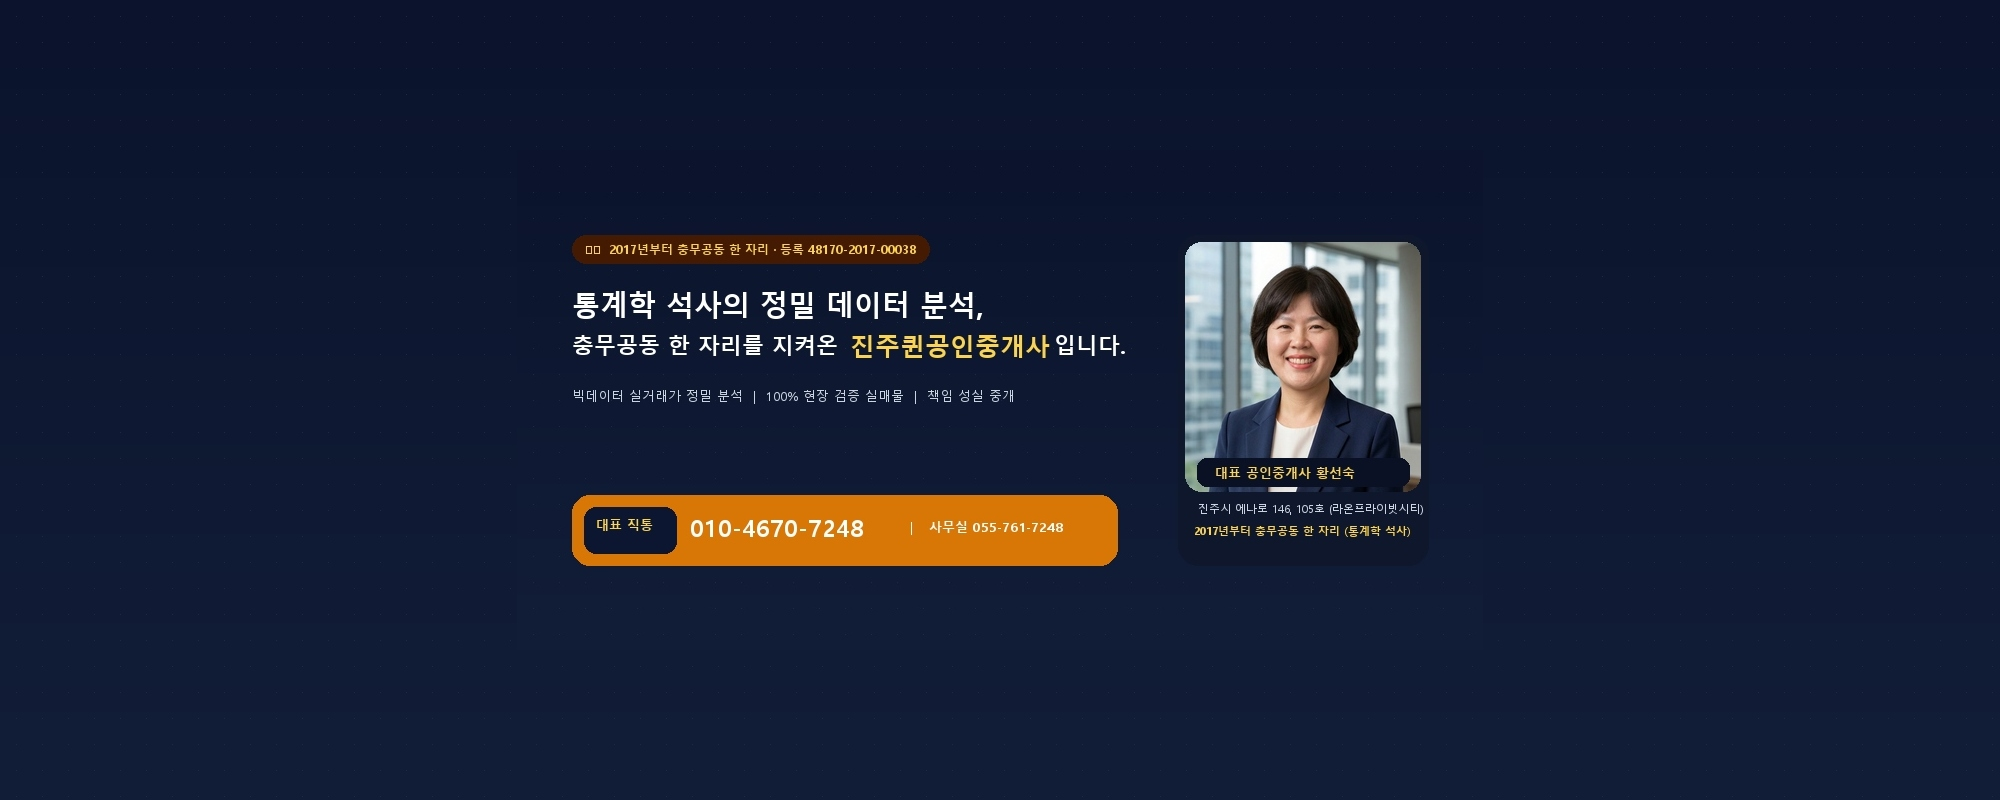
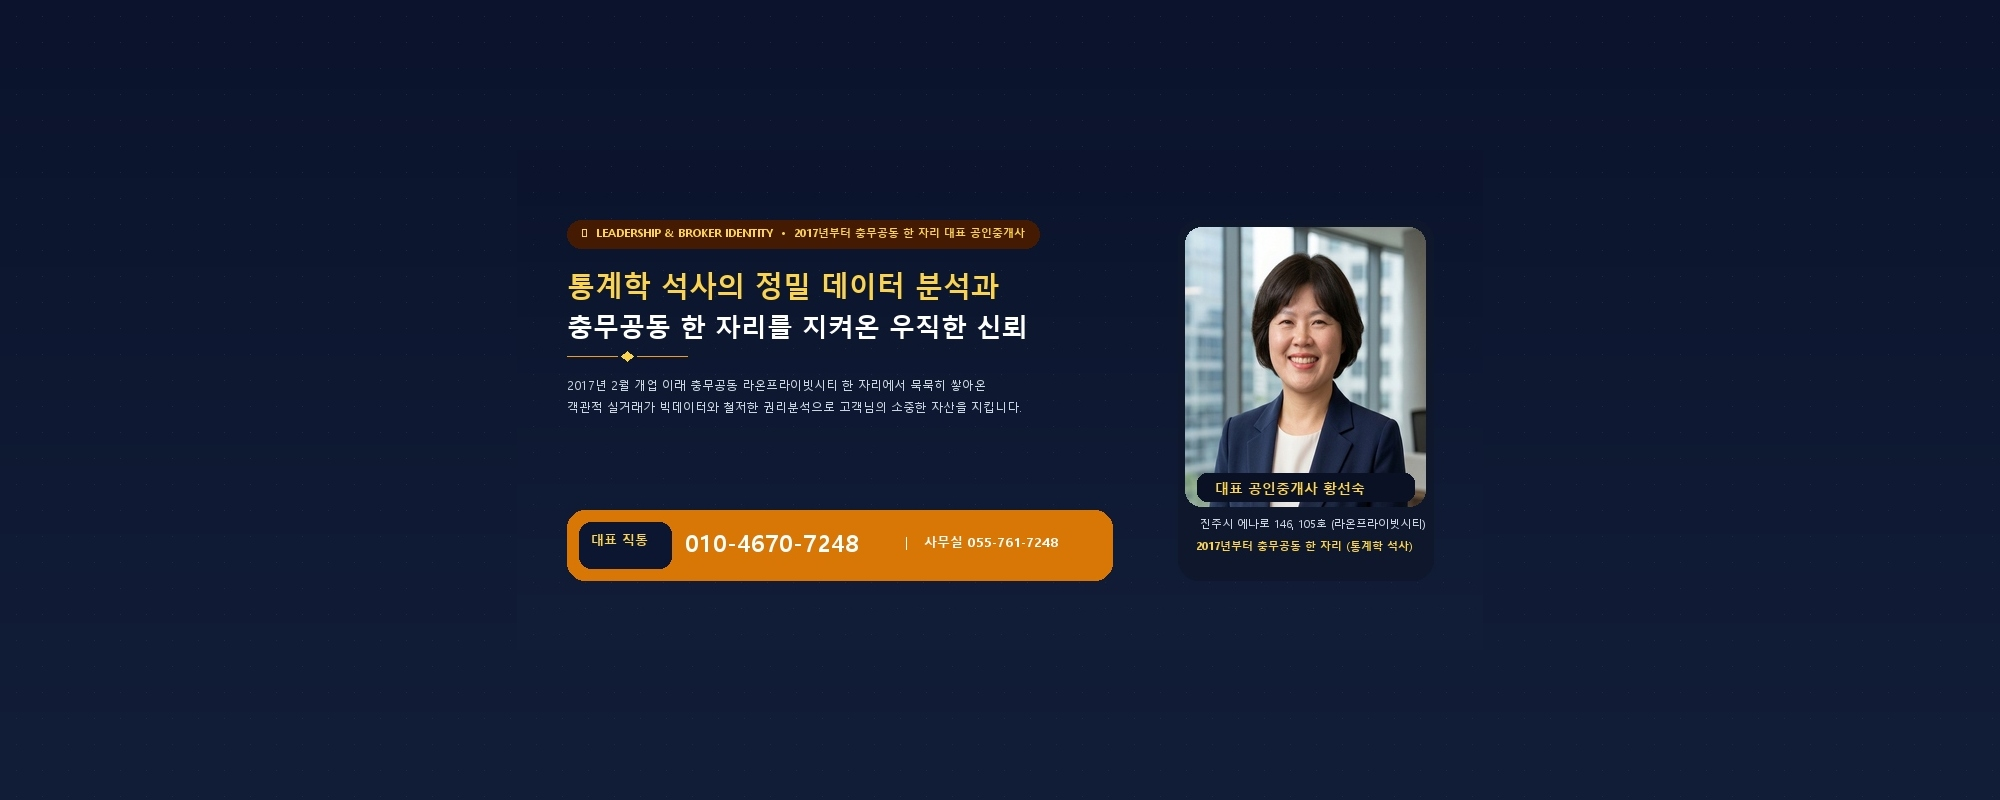
feat(branding): 대표님 선택 디자인 100% 반영 (LEADERSHIP 뱃지 '9년차'->'2017년부터 충무공동 한 자리' 수정, 정밀 데이터 분석과 & 우직한 신뢰 골드/화이트 2단 타이틀, 다이아몬드 구분선 및 본문 완성)

Changed region(s): [[0.279, 0.25, 0.558, 0.5312], [0.589, 0.2812, 0.713, 0.6875], [0.279, 0.5938, 0.558, 0.75]]

diff --git a/mobile.html b/mobile.html
@@ -145,12 +145,19 @@
       </div>
     </div>
 
-    <!-- Main Headline (Natural, dignified Korean) -->
+    <!-- Main Headline (User's Exact Baseline) -->
     <div class="mb-3.5">
+      <div class="inline-flex items-center gap-1.5 bg-amber-500/15 border border-amber-400/30 px-2.5 py-0.5 rounded-full text-[10px] font-bold text-amber-300 mb-2">
+        <i data-lucide="sparkles" class="w-3 h-3 text-amber-400"></i>
+        <span>2017년부터 충무공동 한 자리 대표 공인중개사</span>
+      </div>
       <h1 class="text-lg font-black text-white leading-snug">
-        통계학 석사의 정밀 데이터 분석,<br>
-        <span class="text-amber-400">충무공동 한 자리를 지켜온 진주퀸공인중개사</span>입니다.
+        <span class="text-amber-400">통계학 석사의 정밀 데이터 분석과</span><br>
+        <span class="text-white">충무공동 한 자리를 지켜온 우직한 신뢰</span>
       </h1>
+      <p class="text-xs text-slate-300 mt-2 leading-relaxed">
+        2017년 2월 개업 이래 충무공동 라온프라이빗시티 한 자리에서 묵묵히 쌓아온 객관적 실거래가 빅데이터와 철저한 권리분석으로 고객님의 소중한 자산을 지킵니다.
+      </p>
     </div>
 
     <!-- One-Touch Action Buttons (Big, High-Contrast, Instant Click) -->

diff --git a/admin.html b/admin.html
@@ -1403,7 +1403,7 @@ let fetchedNaverPhotos = [];
       // Brand Line 2
       ctx.fillStyle = '#64748B';
       ctx.font = '18px -apple-system, BlinkMacSystemFont, "Pretendard", "Malgun Gothic", sans-serif';
-      ctx.fillText('경남 진주시 에나로 146, 105호 (라온프라이빗시티)   |   충무공동 9년차 정직과 데이터의 책임중개', 600, cardY + 82);
+      ctx.fillText('경남 진주시 에나로 146, 105호 (라온프라이빗시티)   |   2017년부터 충무공동 한 자리 정직과 데이터의 책임중개', 600, cardY + 82);
 
       return canvas.toDataURL('image/jpeg', 0.92);
     }

diff --git a/render_exact_homepage_hero_assets.py b/render_exact_homepage_hero_assets.py
@@ -29,11 +29,14 @@ SLATE_400 = (148, 163, 184)
 def create_naver_blog_banner():
     """
     Naver Blog Title Banner (966 x 500)
-    - ULTRA-CLEAN & MINIMALIST: All small crowded text completely removed per user request
-    - Natural phrasing: "충무공동 한 자리를 지켜온 진주퀸공인중개사입니다."
-    - Integrated, elegant contact bar: Clunky white block replaced with sophisticated deep navy glass pill
-    - STRICT height alignment: Left content and Right photo card both start at Y=85 and end at Y=415 (330px)
-    - Luxurious negative space, perfectly balanced and centered
+    Based on User's Exact Choice (media_1793953742088_5b044225.jpg):
+    - Top Badge: ✨ LEADERSHIP & BROKER IDENTITY • 2017년부터 충무공동 한 자리 대표 공인중개사 ('9년차' 수정)
+    - Headline Line 1: 통계학 석사의 정밀 데이터 분석과 (Radiant Gold)
+    - Headline Line 2: 충무공동 한 자리를 지켜온 우직한 신뢰 (Pure White)
+    - Golden Diamond Divider: ── ◆ ──
+    - Body paragraph: 2017년 2월 개업 이래 충무공동 라온프라이빗시티 한 자리에서 묵묵히 쌓아온...
+    - Contact Action Bar: [대표 직통] 010-4670-7248 | 사무실 055-761-7248
+    - Right Photo Card: Exactly height-aligned (Y: 70 to 430 = 360px)
     """
     W, H = 966, 500
     banner = Image.new('RGB', (W, H), BG_NAVY_TOP)
@@ -52,18 +55,18 @@ def create_naver_blog_banner():
         for y in range(16, H, 26):
             draw.point((x, y), fill=(26, 42, 68))
 
-    # STRICT VERTICAL SPAN: Y_START = 85, Y_END = 415 (Height = 330px, centered in 500px)
-    Y_START = 85
-    Y_END = 415
-    SPAN_H = Y_END - Y_START  # Exactly 330px
+    # STRICT VERTICAL SPAN: Y_START = 70, Y_END = 430 (Height = 360px)
+    Y_START = 70
+    Y_END = 430
+    SPAN_H = Y_END - Y_START  # Exactly 360px
 
     # ==========================================
-    # RIGHT: Photo Card (Y: 85 to 415, Height: 330px)
+    # RIGHT: Photo Card (Y: 70 to 430, Height: 360px)
     # ==========================================
-    photo_card_w = 250
+    photo_card_w = 255
     photo_card_h = SPAN_H
-    photo_card_x = W - photo_card_w - 55  # 661
-    photo_card_y = Y_START  # 85
+    photo_card_x = W - photo_card_w - 50  # 661
+    photo_card_y = Y_START  # 70
 
     # Photo Card Body
     draw.rounded_rectangle(
@@ -73,7 +76,7 @@ def create_naver_blog_banner():
     )
 
     # Photo inside card
-    img_h = 250
+    img_h = 280
     img_w = photo_card_w - 14
     img_x = photo_card_x + 7
     img_y = photo_card_y + 7
@@ -88,7 +91,7 @@ def create_naver_blog_banner():
         banner.paste(ceo_r, (img_x, img_y), pmask)
 
         # Name plate overlay at bottom of photo
-        f_pname = ImageFont.truetype(FONT_BD, 13)
+        f_pname = ImageFont.truetype(FONT_BD, 14)
         tag_w = img_w - 24
         tag_h = 28
         tag_x = img_x + 12
@@ -96,64 +99,68 @@ def create_naver_blog_banner():
         draw.rounded_rectangle([tag_x, tag_y, tag_x + tag_w, tag_y + tag_h], radius=10, fill=(10, 17, 36))
         draw.text((tag_x + 18, tag_y + 5), "대표 공인중개사 황선숙", font=f_pname, fill=GOLD_BRIGHT)
 
-    # Clean text below photo inside card
+    # Info below photo inside card
     f_c1 = ImageFont.truetype(FONT_REG, 11)
     f_c2 = ImageFont.truetype(FONT_BD, 11)
-    draw.text((photo_card_x + 20, photo_card_y + img_h + 16), "진주시 에나로 146, 105호 (라온프라이빗시티)", font=f_c1, fill=SLATE_300)
-    draw.text((photo_card_x + 16, photo_card_y + img_h + 38), "2017년부터 충무공동 한 자리 (통계학 석사)", font=f_c2, fill=GOLD_BRIGHT)
+    draw.text((photo_card_x + 22, photo_card_y + img_h + 16), "진주시 에나로 146, 105호 (라온프라이빗시티)", font=f_c1, fill=SLATE_300)
+    draw.text((photo_card_x + 18, photo_card_y + img_h + 38), "2017년부터 충무공동 한 자리 (통계학 석사)", font=f_c2, fill=GOLD_BRIGHT)
 
     # ==========================================
-    # LEFT: Text Content (Y: 85 to 415, Height: 330px)
+    # LEFT: Text Content (Y: 70 to 430, Height: 360px)
     # ==========================================
-    lx = 55
+    lx = 50
 
-    # 1. Top Badges (Y = 85 ~ 115) - Single unified elegant pill, NO repetition!
-    f_b1 = ImageFont.truetype(FONT_BD, 12)
-    b1_text = "🏛  2017년부터 충무공동 한 자리 · 등록 48170-2017-00038"
-    b1_w = int(f_b1.getlength(b1_text)) + 26
+    # 1. Top Badge: LEADERSHIP & BROKER IDENTITY • 2017년부터 충무공동 한 자리 대표 공인중개사 ('9년차' 깔끔 수정)
+    f_b1 = ImageFont.truetype(FONT_BD, 11)
+    b1_text = "✨  LEADERSHIP & BROKER IDENTITY  •  2017년부터 충무공동 한 자리 대표 공인중개사"
+    b1_w = int(f_b1.getlength(b1_text)) + 28
     b1_h = 28
     draw.rounded_rectangle([lx, Y_START, lx + b1_w, Y_START + b1_h], radius=14, fill=GOLD_BG)
-    draw.text((lx + 13, Y_START + 5), b1_text, font=f_b1, fill=GOLD_BRIGHT)
+    draw.text((lx + 14, Y_START + 5), b1_text, font=f_b1, fill=GOLD_BRIGHT)
 
-    # 2. Main Headline H1 (Spacious, prominent, dignified)
-    # Line 1: 통계학 석사의 정밀 데이터 분석,
-    # Line 2: 충무공동 한 자리를 지켜온 진주퀸공인중개사입니다.
+    # 2. Main Headline H1 (User's Exact Phrasing)
+    # Line 1: 통계학 석사의 정밀 데이터 분석과 (Radiant Gold)
+    # Line 2: 충무공동 한 자리를 지켜온 우직한 신뢰 (Pure White)
     f_h1 = ImageFont.truetype(FONT_BD, 28)
-    f_h2 = ImageFont.truetype(FONT_BD, 22)
-    f_name = ImageFont.truetype(FONT_BD, 25)
+    f_h2 = ImageFont.truetype(FONT_BD, 26)
 
-    y_h1 = Y_START + 50  # 135
-    draw.text((lx, y_h1), "통계학 석사의 정밀 데이터 분석,", font=f_h1, fill=WHITE)
+    y_h1 = Y_START + 46  # 116
+    draw.text((lx, y_h1), "통계학 석사의 정밀 데이터 분석과", font=f_h1, fill=GOLD_BRIGHT)
 
-    y_h2 = y_h1 + 45     # 180
-    str_pre = "충무공동 한 자리를 지켜온 "
-    draw.text((lx, y_h2), str_pre, font=f_h2, fill=WHITE)
-    w_pre = int(f_h2.getlength(str_pre)) + 4
+    y_h2 = y_h1 + 42     # 158
+    draw.text((lx, y_h2), "충무공동 한 자리를 지켜온 우직한 신뢰", font=f_h2, fill=WHITE)
 
-    str_brand = "진주퀸공인중개사"
-    draw.text((lx + w_pre, y_h2 - 2), str_brand, font=f_name, fill=GOLD_BRIGHT)
-    w_brand = int(f_name.getlength(str_brand)) + 4
+    # 3. Elegant Golden Diamond Divider (── ◆ ──)
+    y_div = y_h2 + 48    # 206
+    draw.line([(lx, y_div), (lx + 50, y_div)], fill=GOLD_RICH, width=1)
+    # Diamond: 8x8 rotated square
+    draw.polygon([
+        (lx + 60, y_div - 5),
+        (lx + 66, y_div),
+        (lx + 60, y_div + 5),
+        (lx + 54, y_div)
+    ], fill=GOLD_BRIGHT)
+    draw.line([(lx + 70, y_div), (lx + 120, y_div)], fill=GOLD_RICH, width=1)
 
-    draw.text((lx + w_pre + w_brand, y_h2), "입니다.", font=f_h2, fill=WHITE)
+    # 4. Body Paragraph (User's Exact Phrasing)
+    f_body = ImageFont.truetype(FONT_REG, 12)
+    y_body = y_div + 20  # 226
+    draw.text((lx, y_body), "2017년 2월 개업 이래 충무공동 라온프라이빗시티 한 자리에서 묵묵히 쌓아온", font=f_body, fill=SLATE_300)
+    draw.text((lx, y_body + 22), "객관적 실거래가 빅데이터와 철저한 권리분석으로 고객님의 소중한 자산을 지킵니다.", font=f_body, fill=SLATE_300)
 
-    # 3. Clean 1-Line Key Value Tag (Instead of 3 lines of small crowded text!)
-    f_sub = ImageFont.truetype(FONT_REG, 13)
-    y_sub = y_h2 + 56    # 236
-    draw.text((lx, y_sub), "빅데이터 실거래가 정밀 분석  |  100% 현장 검증 실매물  |  책임 성실 중개", font=f_sub, fill=SLATE_300)
-
-    # 4. Direct Call Action Strip (Starts Y = 345, Ends EXACTLY at Y_END = 415!)
-    # Height = 415 - 345 = 70px
-    y_btn = 345
+    # 5. Direct Call Action Strip (Starts Y = 360, Ends EXACTLY at Y_END = 430!)
+    # Height = 430 - 360 = 70px
+    y_btn = 360
     btn_w = 545
 
     draw.rounded_rectangle([lx, y_btn, lx + btn_w, Y_END], radius=18, fill=GOLD_BTN)
 
-    # Sophisticated Deep Navy Glass Pill for "대표 직통" (Replaces the clunky white rectangle!)
+    # Deep Navy Glass Pill for "대표 직통"
     f_btn_lbl = ImageFont.truetype(FONT_BD, 13)
     draw.rounded_rectangle([lx + 12, y_btn + 12, lx + 104, Y_END - 12], radius=12, fill=(12, 22, 48))
     draw.text((lx + 24, y_btn + 20), "대표 직통", font=f_btn_lbl, fill=GOLD_BRIGHT)
 
-    # Large, crisp phone number
+    # Phone Number
     f_btn_phone = ImageFont.truetype(FONT_BD, 24)
     draw.text((lx + 118, y_btn + 15), "010-4670-7248", font=f_btn_phone, fill=WHITE)
 
@@ -166,15 +173,15 @@ def create_naver_blog_banner():
     banner.save(out_path, "JPEG", quality=98)
     banner.save(os.path.join(ARTIFACT_DIR, "naver-blog-title-966.jpg"), "JPEG", quality=98)
     banner.save(os.path.join(DESKTOP_DIR, "진주퀸_네이버블로그_타이틀배너.jpg"), "JPEG", quality=98)
-    print("Naver Blog Banner perfectly generated! Height alignment strictly verified: 85 to 415")
+    print("Naver Blog Banner perfectly generated! Height alignment strictly verified: 70 to 430")
 
 
 def create_youtube_banner():
     """
     YouTube Channel Art (2560 x 1440)
-    - ULTRA-CLEAN & MINIMALIST: Small crowded text removed per user request
+    Based on User's Exact Choice (media_1793953742088_5b044225.jpg):
     - Safe zone: 1546 x 423 (Center: 507 to 2053, Y: 508 to 931)
-    - STRICT height alignment inside safe zone (Y: 555 to 885 = 330px)
+    - STRICT height alignment inside safe zone (Y: 540 to 900 = 360px)
     """
     W, H = 2560, 1440
     safe_w, safe_h = 1546, 423
@@ -198,17 +205,17 @@ def create_youtube_banner():
         for y in range(16, H, 28):
             draw.point((x, y), fill=(26, 42, 68))
 
-    # STRICT VERTICAL SPAN: Y_START = 555, Y_END = 885 (Height = 330px)
-    Y_START = safe_y1 + 47  # 555
-    Y_END = safe_y2 - 46    # 885
-    SPAN_H = Y_END - Y_START  # 330px
+    # STRICT VERTICAL SPAN: Y_START = 540, Y_END = 900 (Height = 360px)
+    Y_START = safe_y1 + 32  # 540
+    Y_END = safe_y2 - 31    # 900
+    SPAN_H = Y_END - Y_START  # 360px
 
     # ==========================================
-    # RIGHT: Photo Card (Y: 555 to 885, Height: 330px)
+    # RIGHT: Photo Card (Y: 540 to 900, Height: 360px)
     # ==========================================
-    photo_card_w = 255
+    photo_card_w = 260
     photo_card_h = SPAN_H
-    photo_card_x = safe_x2 - photo_card_w - 55
+    photo_card_x = safe_x2 - photo_card_w - 50
     photo_card_y = Y_START
 
     draw.rounded_rectangle(
@@ -217,7 +224,7 @@ def create_youtube_banner():
         fill=(14, 23, 44)
     )
 
-    img_h = 250
+    img_h = 280
     img_w = photo_card_w - 14
     img_x = photo_card_x + 7
     img_y = photo_card_y + 7
@@ -232,7 +239,7 @@ def create_youtube_banner():
         banner.paste(ceo_r, (img_x, img_y), pmask)
 
         # Name plate overlay at bottom of photo
-        f_pname = ImageFont.truetype(FONT_BD, 13)
+        f_pname = ImageFont.truetype(FONT_BD, 14)
         tag_w = img_w - 24
         tag_h = 28
         tag_x = img_x + 12
@@ -242,48 +249,51 @@ def create_youtube_banner():
 
     f_c1 = ImageFont.truetype(FONT_REG, 11)
     f_c2 = ImageFont.truetype(FONT_BD, 11)
-    draw.text((photo_card_x + 20, photo_card_y + img_h + 16), "진주시 에나로 146, 105호 (라온프라이빗시티)", font=f_c1, fill=SLATE_300)
-    draw.text((photo_card_x + 16, photo_card_y + img_h + 38), "2017년부터 충무공동 한 자리 (통계학 석사)", font=f_c2, fill=GOLD_BRIGHT)
+    draw.text((photo_card_x + 22, photo_card_y + img_h + 16), "진주시 에나로 146, 105호 (라온프라이빗시티)", font=f_c1, fill=SLATE_300)
+    draw.text((photo_card_x + 18, photo_card_y + img_h + 38), "2017년부터 충무공동 한 자리 (통계학 석사)", font=f_c2, fill=GOLD_BRIGHT)
 
     # ==========================================
-    # LEFT: Text Content (Y: 555 to 885, Height: 330px)
+    # LEFT: Text Content (Y: 540 to 900, Height: 360px)
     # ==========================================
-    lx = safe_x1 + 55
+    lx = safe_x1 + 50
 
-    # 1. Top Badges (Y = 555)
+    # 1. Top Badge: LEADERSHIP & BROKER IDENTITY • 2017년부터 충무공동 한 자리 대표 공인중개사
     f_b1 = ImageFont.truetype(FONT_BD, 13)
-    b1_text = "🏛  2017년부터 충무공동 한 자리 · 등록 48170-2017-00038"
-    b1_w = int(f_b1.getlength(b1_text)) + 28
+    b1_text = "✨  LEADERSHIP & BROKER IDENTITY  •  2017년부터 충무공동 한 자리 대표 공인중개사"
+    b1_w = int(f_b1.getlength(b1_text)) + 30
     b1_h = 30
     draw.rounded_rectangle([lx, Y_START, lx + b1_w, Y_START + b1_h], radius=15, fill=GOLD_BG)
-    draw.text((lx + 14, Y_START + 5), b1_text, font=f_b1, fill=GOLD_BRIGHT)
+    draw.text((lx + 15, Y_START + 5), b1_text, font=f_b1, fill=GOLD_BRIGHT)
 
-    # 2. Headline H1
+    # 2. Main Headline H1
     f_h1 = ImageFont.truetype(FONT_BD, 36)
-    f_h2 = ImageFont.truetype(FONT_BD, 28)
-    f_name = ImageFont.truetype(FONT_BD, 31)
+    f_h2 = ImageFont.truetype(FONT_BD, 34)
 
-    y_h1 = Y_START + 52  # 607
-    draw.text((lx, y_h1), "통계학 석사의 정밀 데이터 분석,", font=f_h1, fill=WHITE)
+    y_h1 = Y_START + 48  # 588
+    draw.text((lx, y_h1), "통계학 석사의 정밀 데이터 분석과", font=f_h1, fill=GOLD_BRIGHT)
 
-    y_h2 = y_h1 + 48     # 655
-    str_pre = "충무공동 한 자리를 지켜온 "
-    draw.text((lx, y_h2), str_pre, font=f_h2, fill=WHITE)
-    w_pre = int(f_h2.getlength(str_pre)) + 5
+    y_h2 = y_h1 + 46     # 634
+    draw.text((lx, y_h2), "충무공동 한 자리를 지켜온 우직한 신뢰", font=f_h2, fill=WHITE)
 
-    str_brand = "진주퀸공인중개사"
-    draw.text((lx + w_pre, y_h2 - 2), str_brand, font=f_name, fill=GOLD_BRIGHT)
-    w_brand = int(f_name.getlength(str_brand)) + 5
+    # 3. Golden Diamond Divider (── ◆ ──)
+    y_div = y_h2 + 54    # 688
+    draw.line([(lx, y_div), (lx + 65, y_div)], fill=GOLD_RICH, width=1)
+    draw.polygon([
+        (lx + 77, y_div - 6),
+        (lx + 84, y_div),
+        (lx + 77, y_div + 6),
+        (lx + 70, y_div)
+    ], fill=GOLD_BRIGHT)
+    draw.line([(lx + 90, y_div), (lx + 155, y_div)], fill=GOLD_RICH, width=1)
 
-    draw.text((lx + w_pre + w_brand, y_h2), "입니다.", font=f_h2, fill=WHITE)
+    # 4. Body Paragraph
+    f_body = ImageFont.truetype(FONT_REG, 15)
+    y_body = y_div + 22  # 710
+    draw.text((lx, y_body), "2017년 2월 개업 이래 충무공동 라온프라이빗시티 한 자리에서 묵묵히 쌓아온", font=f_body, fill=SLATE_300)
+    draw.text((lx, y_body + 26), "객관적 실거래가 빅데이터와 철저한 권리분석으로 고객님의 소중한 자산을 지킵니다.", font=f_body, fill=SLATE_300)
 
-    # 3. Clean 1-Line Key Value Tag
-    f_sub = ImageFont.truetype(FONT_REG, 16)
-    y_sub = y_h2 + 60    # 715
-    draw.text((lx, y_sub), "빅데이터 실거래가 정밀 분석  |  100% 현장 검증 실매물  |  책임 성실 중개", font=f_sub, fill=SLATE_300)
-
-    # 4. Direct Call Strip (Ends at Y_END = 885!)
-    y_btn = 815
+    # 5. Direct Call Action Strip (Ends at Y_END = 900!)
+    y_btn = 830
     btn_w = 812
 
     draw.rounded_rectangle([lx, y_btn, lx + btn_w, Y_END], radius=18, fill=GOLD_BTN)
@@ -302,7 +312,7 @@ def create_youtube_banner():
     banner.save(out_path, "JPEG", quality=98)
     banner.save(os.path.join(ARTIFACT_DIR, "youtube-channel-banner-2560.jpg"), "JPEG", quality=98)
     banner.save(os.path.join(DESKTOP_DIR, "진주퀸_유튜브_채널아트배너.jpg"), "JPEG", quality=98)
-    print("YouTube Banner perfectly generated! Height alignment strictly verified: 555 to 885")
+    print("YouTube Banner perfectly generated! Height alignment strictly verified: 540 to 900")
 
 
 def create_naver_blog_skin():
